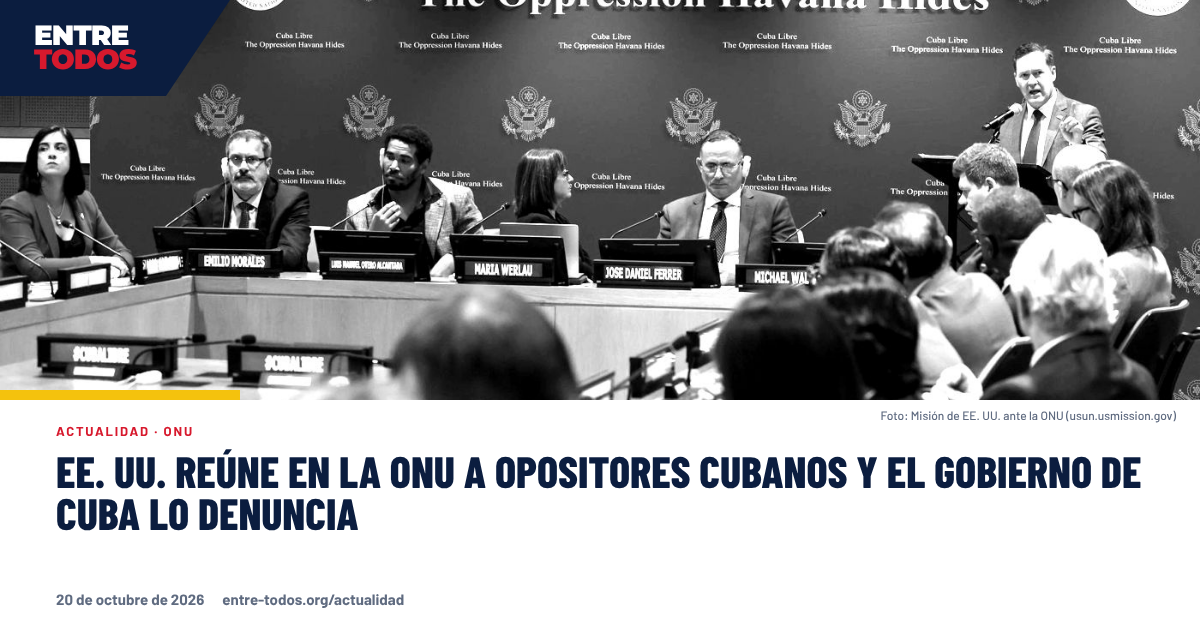
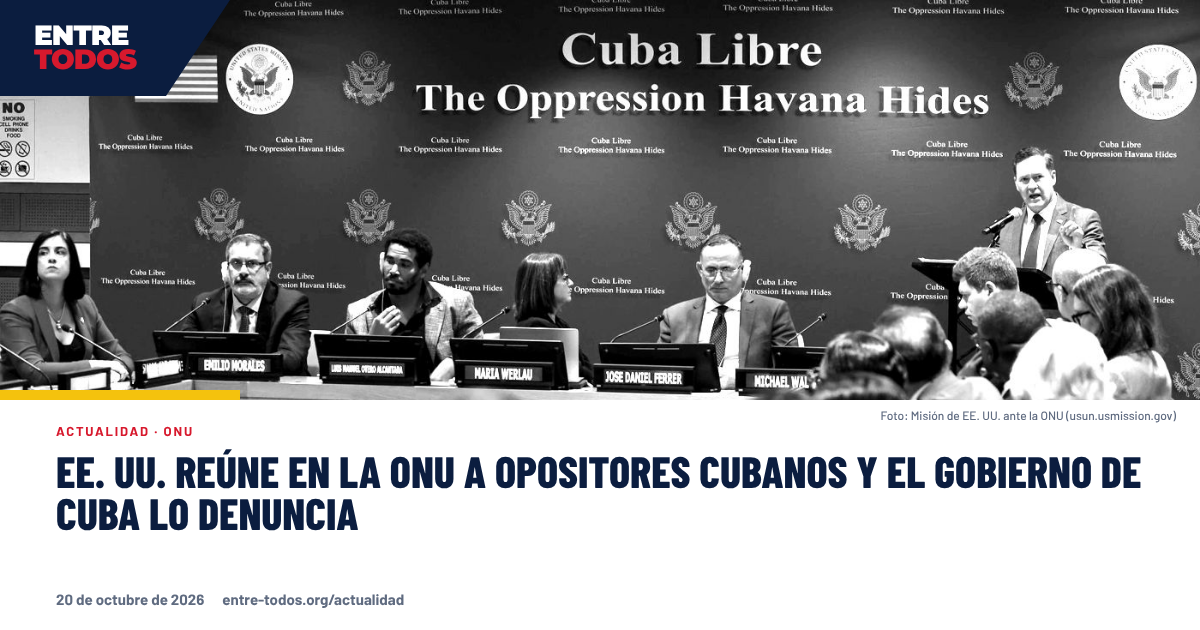
Noticias: foto alineada arriba para que se vea el título del evento
Claude-Session: https://claude.ai/code/session_01NeHkYtKpNTVMo5tPgtXgnp

diff --git a/scripts/noticias/plantilla.html b/scripts/noticias/plantilla.html
@@ -27,7 +27,7 @@
 .franja{position:absolute;height:14px;background:var(--r);transform:skewX(-30deg)}
 /* ancha, modo foto (por defecto): misma dirección que la cuadrada */
 .anchaf{width:1200px;height:630px}
-.anchaf .foto{left:0;top:0;width:1200px;height:400px;background-position:center 26%}
+.anchaf .foto{left:0;top:0;width:1200px;height:400px;background-position:center top}
 .anchaf .barra-am{position:absolute;left:0;top:390px;width:240px;height:10px;background:var(--a)}
 .anchaf .marca{position:absolute;left:0;top:0;width:230px;height:96px;background:var(--m);clip-path:polygon(0 0,100% 0,calc(100% - 64px) 100%,0 100%)}
 .anchaf .logo{position:absolute;left:34px;top:24px;font-size:28px;color:#fff}
@@ -37,7 +37,7 @@
 .anchaf .pie{position:absolute;left:56px;bottom:22px;font:600 15px B;color:var(--t3);display:flex;gap:18px}
 /* cuadrada 1080x1080 */
 .cuadrada{width:1080px;height:1080px}
-.cuadrada .foto{left:0;right:0;top:0;height:620px}
+.cuadrada .foto{left:0;right:0;top:0;height:620px;background-position:center top}
 .cuadrada .barra-am{position:absolute;left:0;top:608px;width:240px;height:12px;background:var(--a)}
 .cuadrada .marca{position:absolute;left:0;top:0;width:330px;height:150px;background:var(--m);clip-path:polygon(0 0,100% 0,calc(100% - 87px) 100%,0 100%)}
 .cuadrada .c{position:absolute;left:72px;right:72px;top:668px;display:flex;flex-direction:column;gap:18px}
